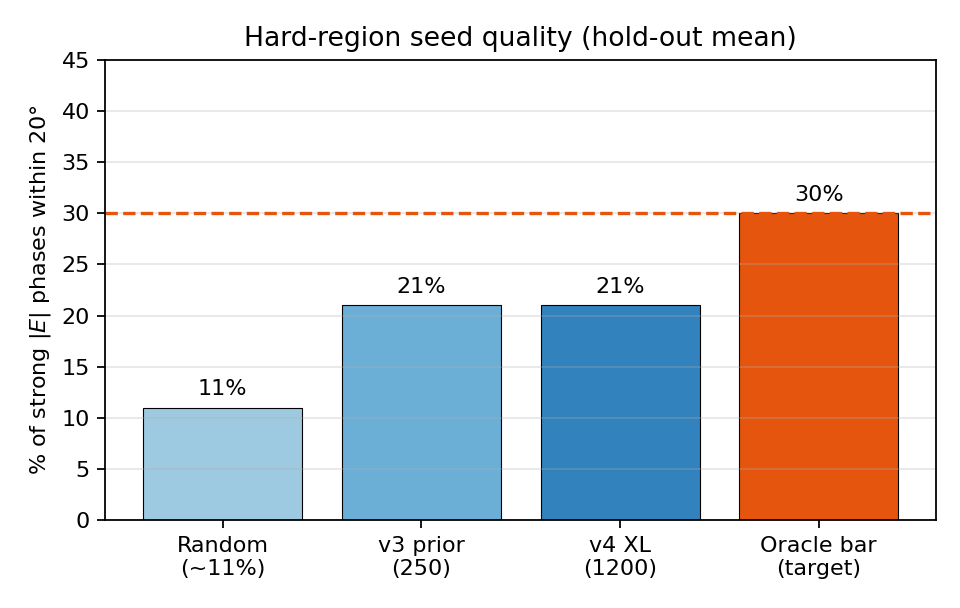
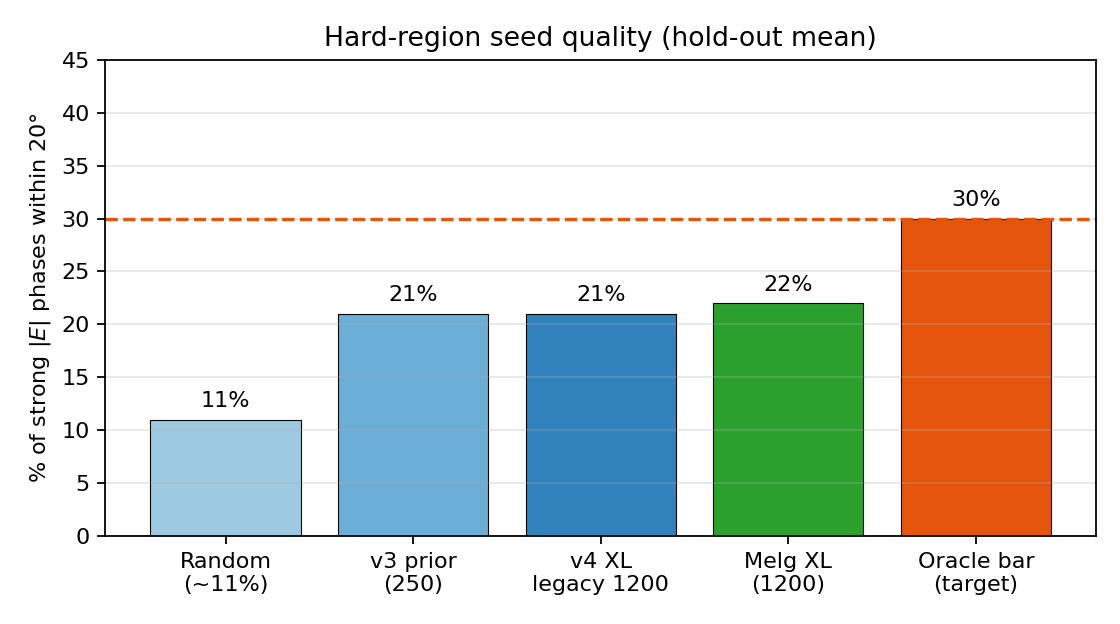
Refresh paper PDF with Melgalvis XL seed-bar figure
Update Fig. 4 to include Melg XL (~22%), abstract with Melgalvis retrain
metrics, regenerate all paper figures and arxiv_draft.pdf.

Changed region(s): [[0.0, 0.0312, 1.0, 0.9688], [0.9062, 0.6562, 0.9375, 0.7188]]

diff --git a/scripts/plot_paper_figures.py b/scripts/plot_paper_figures.py
@@ -232,13 +232,27 @@ def fig3_experimental_cod():
 
 
 def fig4_seed_bar():
-    """Seed quality: graph prior frac≤20% vs 30% bar."""
-    # Static comparison from scoreboards
-    labels = ["Random\n(~11%)", "v3 prior\n(250)", "v4 XL\n(1200)", "Oracle bar\n(target)"]
-    vals = [11, 21, 21, 30]
-    colors = ["#9ecae1", "#6baed6", "#3182bd", "#e6550d"]
+    """Seed quality: graph prior frac≤20% vs 30% bar (incl. Melgalvis XL)."""
+    # Prefer live Melg XL JSON if present
+    melg_frac = 22
+    try:
+        meta = _load("strong_prior_melg_xl.json")
+        if meta.get("mean_holdout_frac_within_20") is not None:
+            melg_frac = int(round(100 * float(meta["mean_holdout_frac_within_20"])))
+    except Exception:
+        pass
 
-    fig, ax = plt.subplots(figsize=(6.0, 3.8))
+    labels = [
+        "Random\n(~11%)",
+        "v3 prior\n(250)",
+        "v4 XL\nlegacy 1200",
+        f"Melg XL\n(1200)",
+        "Oracle bar\n(target)",
+    ]
+    vals = [11, 21, 21, melg_frac, 30]
+    colors = ["#9ecae1", "#6baed6", "#3182bd", "#2ca02c", "#e6550d"]
+
+    fig, ax = plt.subplots(figsize=(7.0, 3.9))
     bars = ax.bar(labels, vals, color=colors, edgecolor="k", lw=0.5)
     ax.axhline(30, color="#e6550d", ls="--", lw=1.5)
     ax.set_ylabel("% of strong $|E|$ phases within 20°")
@@ -291,9 +305,10 @@ budget; large macrolide 2017775 remains unsolved ab initio.
 ## Figure 4 — Graph prior seed bar
 `paper_fig4_seed_bar.png`
 
-Mean fraction of strong phases within 20° of truth. GraphPhaseNet v3 and v4 XL
-(~1200 train structures) plateau near 21%, below the 30% oracle bar that enables
-reliable hard-region extension.
+Mean fraction of strong phases within 20° of truth. GraphPhaseNet v3 and legacy
+v4 XL plateau near 21%. Melgalvis & Rekis (2026) style XL retrain (N=1200)
+reaches ~22% with seedOK rate ~12.5%—still below the 30% oracle bar that enables
+reliable hard-region extension. Hard strict solves remain 0%.
 """
     )
     print("Wrote:")

diff --git a/docs/figures/paper_figure_captions.md b/docs/figures/paper_figure_captions.md
@@ -27,6 +27,7 @@ budget; large macrolide 2017775 remains unsolved ab initio.
 ## Figure 4 — Graph prior seed bar
 `paper_fig4_seed_bar.png`
 
-Mean fraction of strong phases within 20° of truth. GraphPhaseNet v3 and v4 XL
-(~1200 train structures) plateau near 21%, below the 30% oracle bar that enables
-reliable hard-region extension.
+Mean fraction of strong phases within 20° of truth. GraphPhaseNet v3 and legacy
+v4 XL plateau near 21%. Melgalvis & Rekis (2026) style XL retrain (N=1200)
+reaches ~22% with seedOK rate ~12.5%—still below the 30% oracle bar that enables
+reliable hard-region extension. Hard strict solves remain 0%.

diff --git a/docs/arxiv_draft.md b/docs/arxiv_draft.md
@@ -14,7 +14,7 @@
 
 We present *grok_phase_solver*, an open Python framework that unifies classical solutions of the X-ray crystallographic phase problem—charge flipping, hybrid input–output (HIO), relaxed averaged alternating reflections (RAAR), difference-map projections, Patterson and direct methods, isomorphous difference Patterson, and density modification—with hybrid and learned phase priors (AI-PhaSeed, GraphPhaseNet, optional PhAI). Algorithms act on measured amplitudes $|F(hkl)|$ and are evaluated with origin-invariant map correlation (mapCC), peak recovery, $R_1$, free figures of merit based on a positivity residual $R_+$, and a strict multi-criterion success definition.
 
-On easy synthetic cells, multistart free-FOM **ensemble** phasing is competitive with or better than local academic SHELXS under our scoring protocol. On hard cells ($n\gtrsim 12$, $d_{\min}\gtrsim 1.5$ Å), pure ab initio methods—including scaled graph priors—remain ~0% strict success. An **oracle partial-φ** experiment shows that when ≥~30% of strong $|E|$ phases are correct within ~20°, AI-PhaSeed extension strict-solves those hard cells, identifying **seed quality** as the hard-region bottleneck rather than free-FOM inversion. Scaling GraphPhaseNet to 1200 Wilson-matched structures (residual GNN, Adam) does **not** lift mean strong-phase accuracy above ~21% within 20°. On experimental COD Fobs, PhAI hybrids strict-solve COD 2016452 at 1.0 Å in our pipeline budget.
+On easy synthetic cells, multistart free-FOM **ensemble** phasing is competitive with or better than local academic SHELXS under our scoring protocol. On hard cells ($n\gtrsim 12$, $d_{\min}\gtrsim 1.5$ Å), pure ab initio methods—including scaled graph priors—remain ~0% strict success. An **oracle partial-φ** experiment shows that when ≥~30% of strong $|E|$ phases are correct within ~20°, AI-PhaSeed extension strict-solves those hard cells, identifying **seed quality** as the hard-region bottleneck rather than free-FOM inversion. Scaling GraphPhaseNet to 1200 Wilson-matched structures (residual GNN, Adam), and retraining at the same scale on Melgalvis \& Rekis (2026) artificial crystals, does **not** lift mean strong-phase accuracy above ~21--22% within $20^\circ$ (seedOK rate ~12.5% for Melgalvis XL). On experimental COD Fobs, PhAI hybrids strict-solve COD 2016452 at 1.0 Å in our pipeline budget.
 
 We ship scientist-facing tools (`gps-solve`, `gps-make-seed`, Streamlit `gps-gui`) exporting density maps and SHELXL-ready `trial.res`. We do **not** claim a general macromolecular ab initio solution or industrial equivalence to SHELXT on all cases.
 